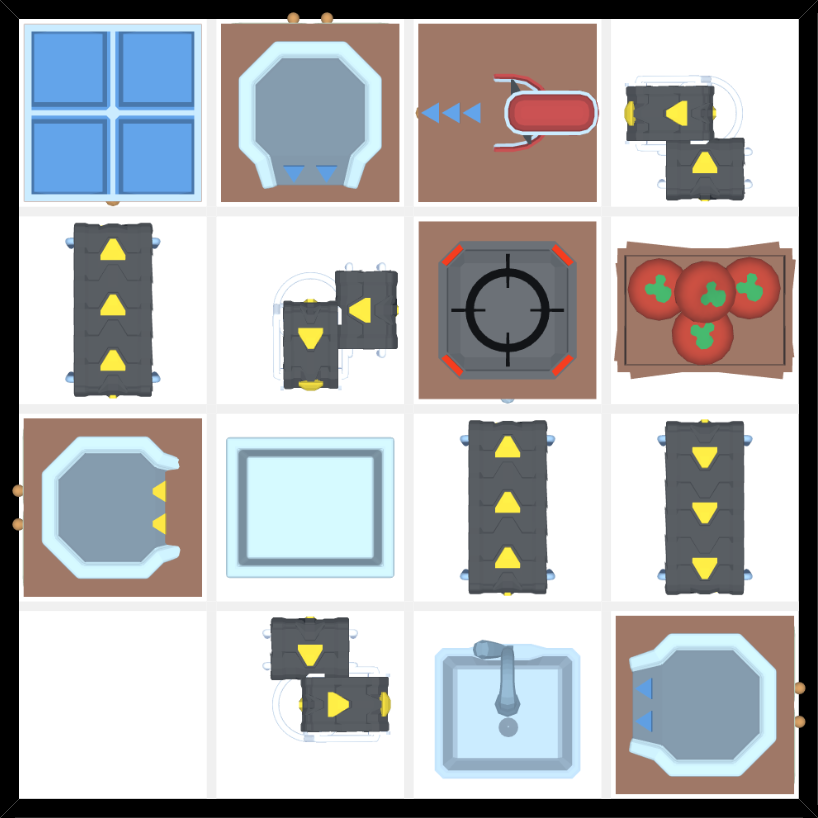
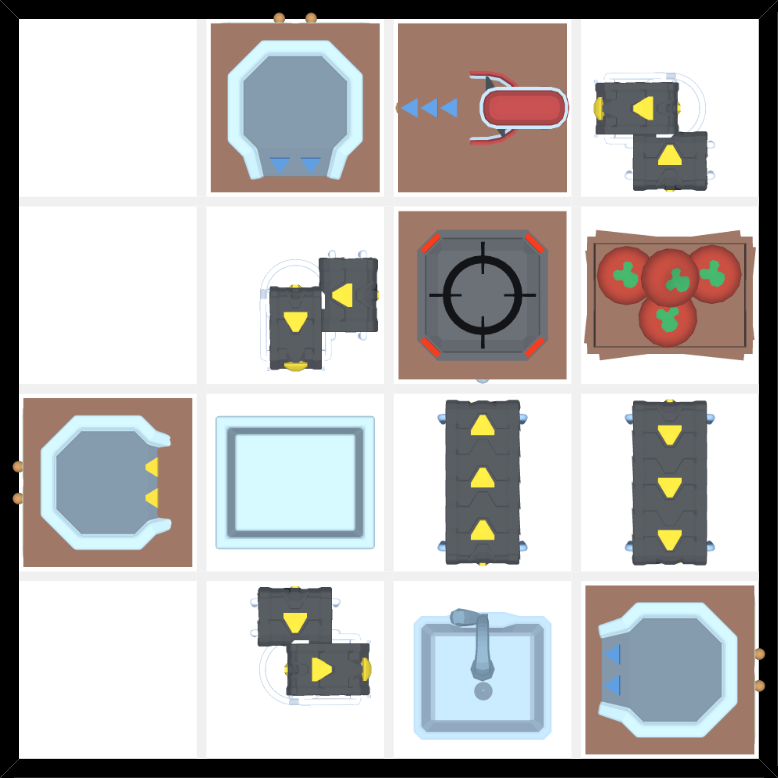
All 2 loop soups added

diff --git a/guide/starters/soup_pumpkin.md b/guide/starters/soup_pumpkin.md
@@ -8,7 +8,16 @@ nav_order: 8
 
 # Pumpkin Soup
 
-Pumpkin Soup takes up more space compared to most soup due to disposing of the pumpkin seeds. The seeds can be repurposed for Pumpkin Seeds starter but far slower due to the 1:3 ratio of pumpkin need for soup and seeds
+Pumpkin Soup takes up more space compared to other soup due to needing to dispose of the pumpkin seeds. The seeds can be repurposed for Pumpkin Seeds starter but provides seeds far slower due to the 1:3 ratio of pumpkin needed for soup versus seeds. Pumpkin soup also can't be sped up by chopping the ingredients, as the pumpkin needs to be chopped anyway,
+
+## 2 Loop Soup
+A **slower but more compact** design where the soup loops around twice before finishing cooking, hence "2 loop soup". 2 loop soup designs also forgo the frep station to further shrink the design
+
+![soup_pumpkin_2.png](</assets/images/guide/starters/soup_pumpkin_2.png>)
+    2 grabber, 3 rotating, 1 conmixer, 1 danger, 1 combiner, 2 portioner, 1 sink, 1 bin, 1 freezer
+
+## 1 Loop Soup
+A **faster but larger** designs where the soup is kept on the danger hob (instead of looping) to cook twice before finishing, hence "1 loop soup"
 
 ![soup_pumpkin.png](</assets/images/guide/starters/soup_pumpkin.png>)
-    2 grabber, 3 rotating, 1 smart, 1 conmixer, 1 danger, 2 combiner, 2 portioner, 1 sink, 1 bin, 1 frep, 1 freezer
+   2 grabber, 3 rotating, 1 smart, 1 conmixer, 1 danger, 2 combiner, 2 portioner, 1 sink, 1 bin, 1 frep, 1 freezer

diff --git a/guide/starters/soup_tomato.md b/guide/starters/soup_tomato.md
@@ -10,10 +10,14 @@ nav_order: 9
 
 Tomato Soup can be cooked faster using tomato slices in lieu of whole tomato, but the time saved from cooking isn't worth the extra space required for automating tomato slices, needing a smart grabber and compactor bin.
 
-### 1 Loop Soup
+## 2 Loop Soup
+A **slower but more compact** design where the soup loops around twice before finishing cooking, hence "2 loop soup". 2 loop soup designs also forgo the frep station to further shrink the design
+
+![soup_tomato_2.png](</assets/images/guide/starters/soup_tomato_2.png>)
+    2 grabber, 3 rotating, 1 conmixer, 1 danger, 2 combiner, 1 portioner, 1 sink, 1 freezer
+
+## 1 Loop Soup
+A **faster but larger** designs where the soup is kept on the danger hob (instead of looping) to cook twice before finishing, hence "1 loop soup"
+
 ![soup_tomato.png](</assets/images/guide/starters/soup_tomato.png>)
     1 grabber, 4 rotating, 1 smart, 1 conmixer, 1 danger, 3 combiner, 1 portioner, 1 sink, 1 frep, 1 freezer
-
-### 2 Loop Soup
-![soup_tomato_2.png](</assets/images/guide/starters/soup_tomato_2.png>)
-    3 grabber, 3 rotating, 1 conmixer, 1 danger, 2 combiner, 1 portioner, 1 sink, 1 frep, 1 freezer

diff --git a/guide/starters/soups_carrot.md b/guide/starters/soups_carrot.md
@@ -8,7 +8,15 @@ nav_order: 6
 
 # Carrot Soup
 
-Carrot Soup and Meat Soup use the same design, so they have been combined for simplicity. You just chop meat instead of carrot. Obviously. Also the meat takes a little longer to chop.
+Carrot Soup can be sped up by pre-chopping the carrot, but the time saved isn't much longer than the chopping time. As such, the mixer in the 1 loop soup design can be removed without any loss in efficiency. 
+
+## 2 Loop Soup
+A **slower but more compact** design where the soup loops around twice before finishing cooking, hence "2 loop soup". 2 loop soup designs also forgo the frep station to further shrink the design
+
+![soup_carrot_2.png](</assets/images/guide/starters/soup_carrot_2.png>)
+    2 grabber, 2 rotating, 1 danger, 1 combiner, 1 portioner, 1 sink, 1 freezer
+## 1 Loop Soup
+A **faster but larger** designs where the soup is kept on the danger hob (instead of looping) to cook twice before finishing, hence "1 loop soup"
 
 ![soup_carrot.png](</assets/images/guide/starters/soup_carrot.png>)
     2 grabber, 2 rotating, 1 smart, 1 conmixer, 1 danger, 2 combiner, 1 portioner, 1 sink, 1 frep, 1 freezer

diff --git a/guide/starters/soup_meat.md b/guide/starters/soup_meat.md
@@ -8,7 +8,16 @@ nav_order: 7
 
 # Meat Soup
 
-Carrot Soup and Meat Soup use the same design, so they have been combined for simplicity. You just chop meat instead of carrot. Obviously. Also the meat takes a little longer to chop.
+Meat Soup takes the longest the cook, so it can be worth chopping the meat if you're making soup manually. The meat is chopped in the 1 loop design, but removed for 2 loop soup for the sake of space
+
+## 2 Loop Soup
+A **slower but more compact** design where the soup loops around twice before finishing cooking, hence "2 loop soup". 2 loop soup designs also forgo the frep station to further shrink the design
+
+![soup_meat_2.png](</assets/images/guide/starters/soup_meat_2.png>)
+    2 grabber, 2 rotating, 1 danger, 1 combiner, 1 portioner, 1 sink, 1 freezer
+
+## 1 Loop Soup
+A **faster but larger** designs where the soup is kept on the danger hob (instead of looping) to cook twice before finishing, hence "1 loop soup"
 
 ![soup_meat.png](</assets/images/guide/starters/soup_meat.png>)
     2 grabber, 2 rotating, 1 smart, 1 conmixer, 1 danger, 2 combiner, 1 portioner, 1 sink, 1 frep, 1 freezer

diff --git a/guide/starters/soup_broc_cheese.md b/guide/starters/soup_broc_cheese.md
@@ -8,7 +8,16 @@ nav_order: 5
 
 # Broccoli Cheese Soup
 
-Theoretically, this should be able to compress into a 4x4 design but the math wasn’t mathing.
+The only soup requiring 2 different ingredients. Neither broccoli or cheese can be chopped to speed up cooking time
+
+## 2 Loop Soup
+A **slower but more compact** design where the soup loops around twice before finishing cooking, hence "2 loop soup". 2 loop soup designs also forgo the frep station to further shrink the design
+
+![soup_broc_cheese_2.png](</assets/images/guide/starters/soup_broc_cheese_2.png>)
+    1 grabber, 3 rotating, 1 danger, 2 combiner, 1 portioner, 1 sink, 1 freezer
+
+## 1 Loop Soup
+A **faster but larger** designs where the soup is kept on the danger hob (instead of looping) to cook twice before finishing, hence "1 loop soup"
 
 ![soup_broc_cheese.png](</assets/images/guide/starters/soup_broc_cheese.png>)
     3 grabber, 2 rotating, 1 smart, 1 danger, 3 combiner, 1 portioner, 1 sink, 1 frep, 1 freezer
